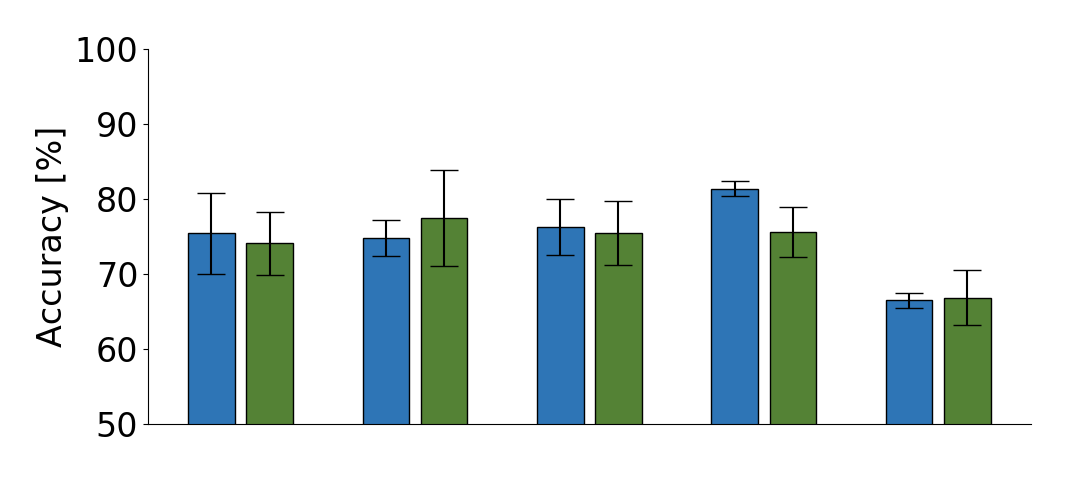
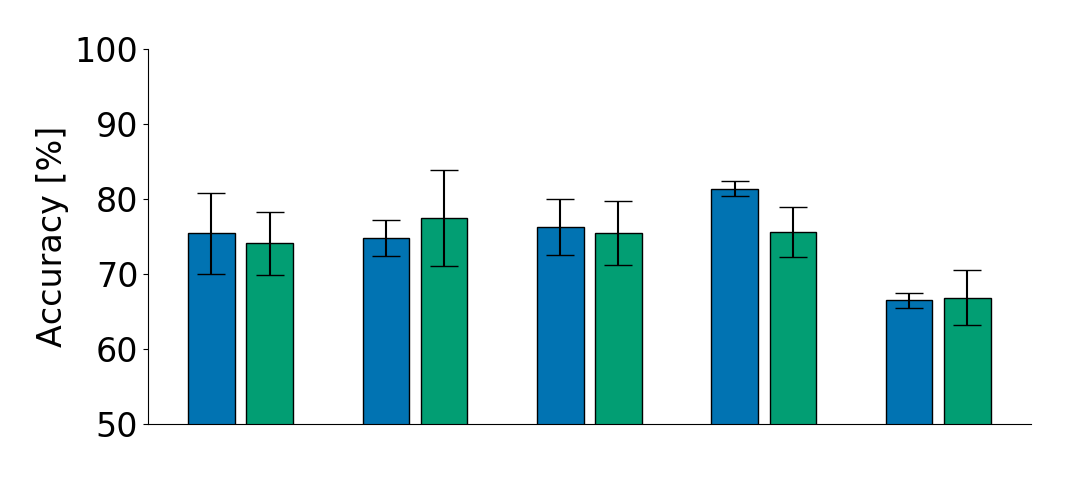
rerun div and topo pred results plotting using color-blind friendly colors and saving their hex codes

diff --git a/Code/mainAnalyseOccurrenceAndPerformance.py b/Code/mainAnalyseOccurrenceAndPerformance.py
@@ -13,7 +13,7 @@ from MyScorer import mainPlotRocCurvesAndAUCLabelDetails
 from pathlib import Path
 from VisualisePredictionsOnTissue import mainCreateTissuePredictionColoringOf
 
-def plotAndPrepareMainFigures(resultsFolder="Results/MainFigures/", figuresToDo=["Fig. 4 C"]):
+def plotAndPrepareMainFigures(resultsFolder="Results/MainFigures/", figuresToDo=["Fig. 2 B alternative", "Fig. 3 B alternative"]):
     Path(resultsFolder).mkdir(parents=True, exist_ok=True)
     # Fig. 2 A - .csv-file to use in MGX showing TP&TN in blue and FN&FP
     if figuresToDo == "all" or "Fig. 2 A" in figuresToDo:
@@ -102,7 +102,7 @@ def plotAndPrepareMainFigures(resultsFolder="Results/MainFigures/", figuresToDo=
     # Fig. 4 D - concordance between the observed and predicted topologies
     # Fig. 4 E - comparison of obs. vs  pred. harmonic centrality applying div. and topo. prediction models
 
-def plotAndPrepareSuppFigures(resultsFolder="Results/SuppFigures/", figuresToDo=["Fig. 5 B"]):
+def plotAndPrepareSuppFigures(resultsFolder="Results/SuppFigures/", figuresToDo=["Fig. 9 B"]):
     Path(resultsFolder).mkdir(parents=True, exist_ok=True)
     # Fig. 2 - Pearson corr coeff of topological features vs area
     if figuresToDo == "all" or "Fig. 2" in figuresToDo:
@@ -126,6 +126,10 @@ def plotAndPrepareSuppFigures(resultsFolder="Results/SuppFigures/", figuresToDo=
                                  savePlotFolder=fig5BResultFolder,
                                  fontSize=fontSize)
     # Fig. 8 - comparison of obs. vs  pred. of all centrality applying div. and topo. prediction models
+    if figuresToDo == "all" or "Fig. 8" in figuresToDo:
+        fig9AResultFolder = resultsFolder + "Fig 8/"
+        Path(fig9AResultFolder).mkdir(parents=True, exist_ok=True)
+        mainSaveDensityPlotsOfFeaturesFromDiffScenarios(plotTopoFeatures=True, savePlotFolder=fig9AResultFolder)
     # Fig. 9 - density distributions of features - A topological and B biological features
     if figuresToDo == "all" or "Fig. 9 A" in figuresToDo:
         fig9AResultFolder = resultsFolder + "Fig 9A/"
